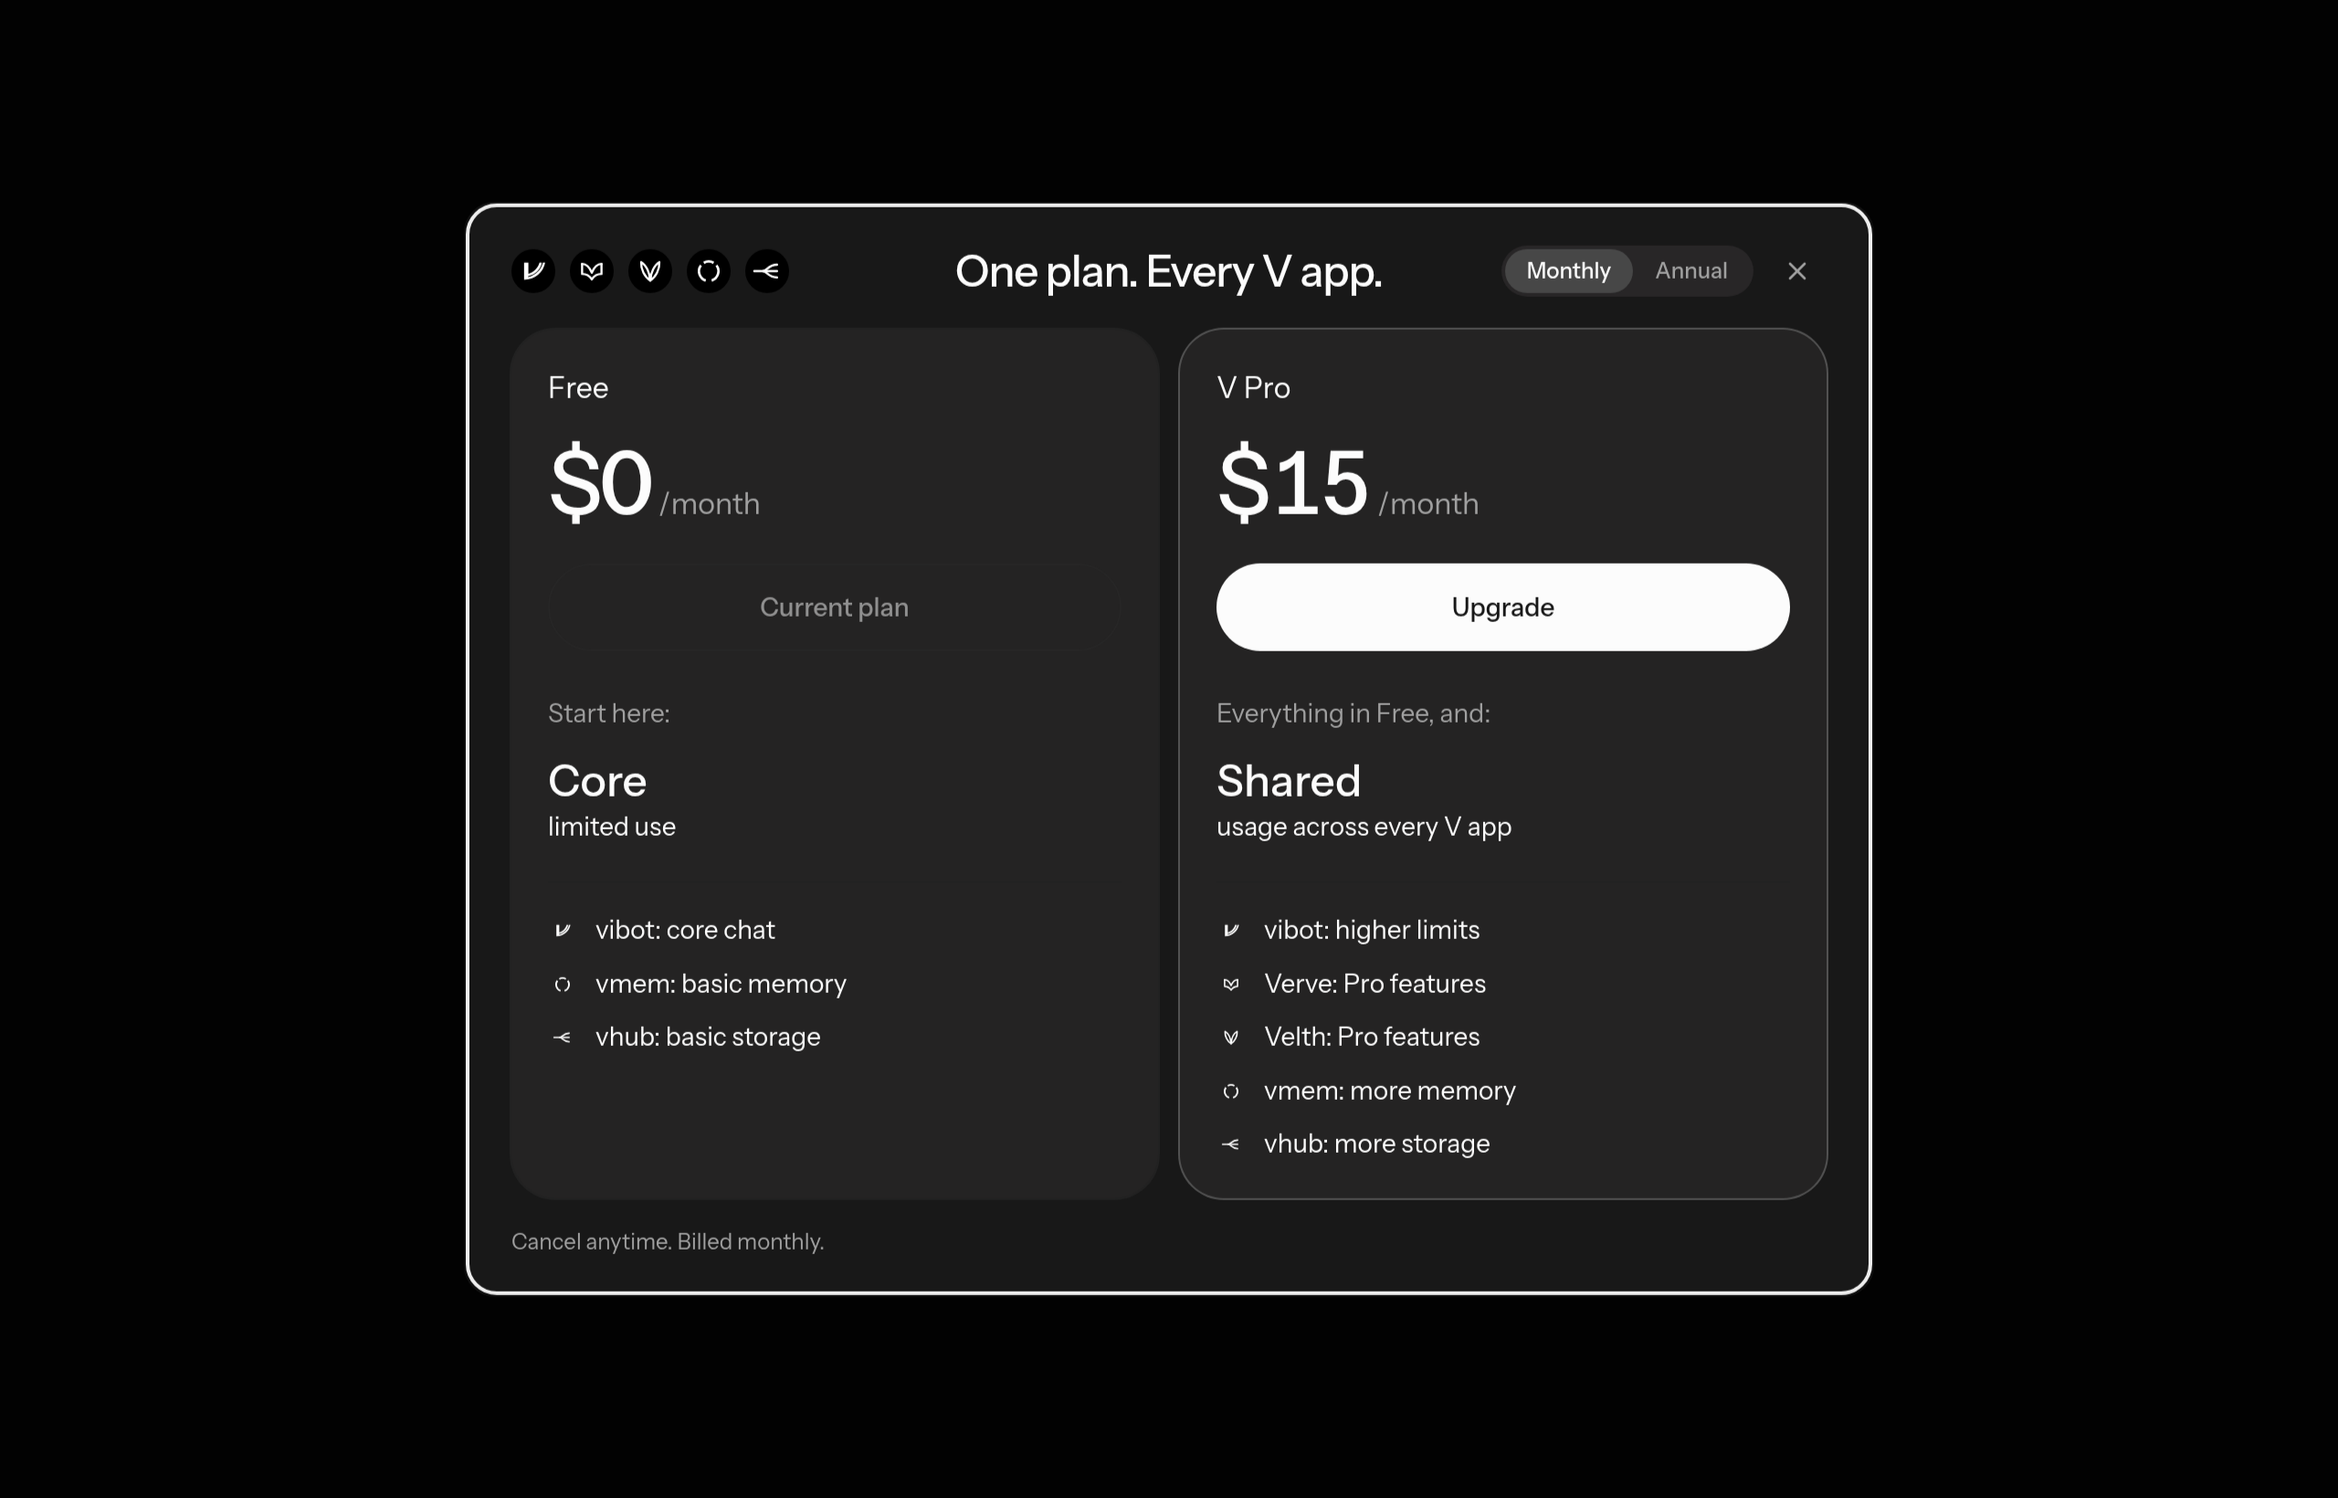
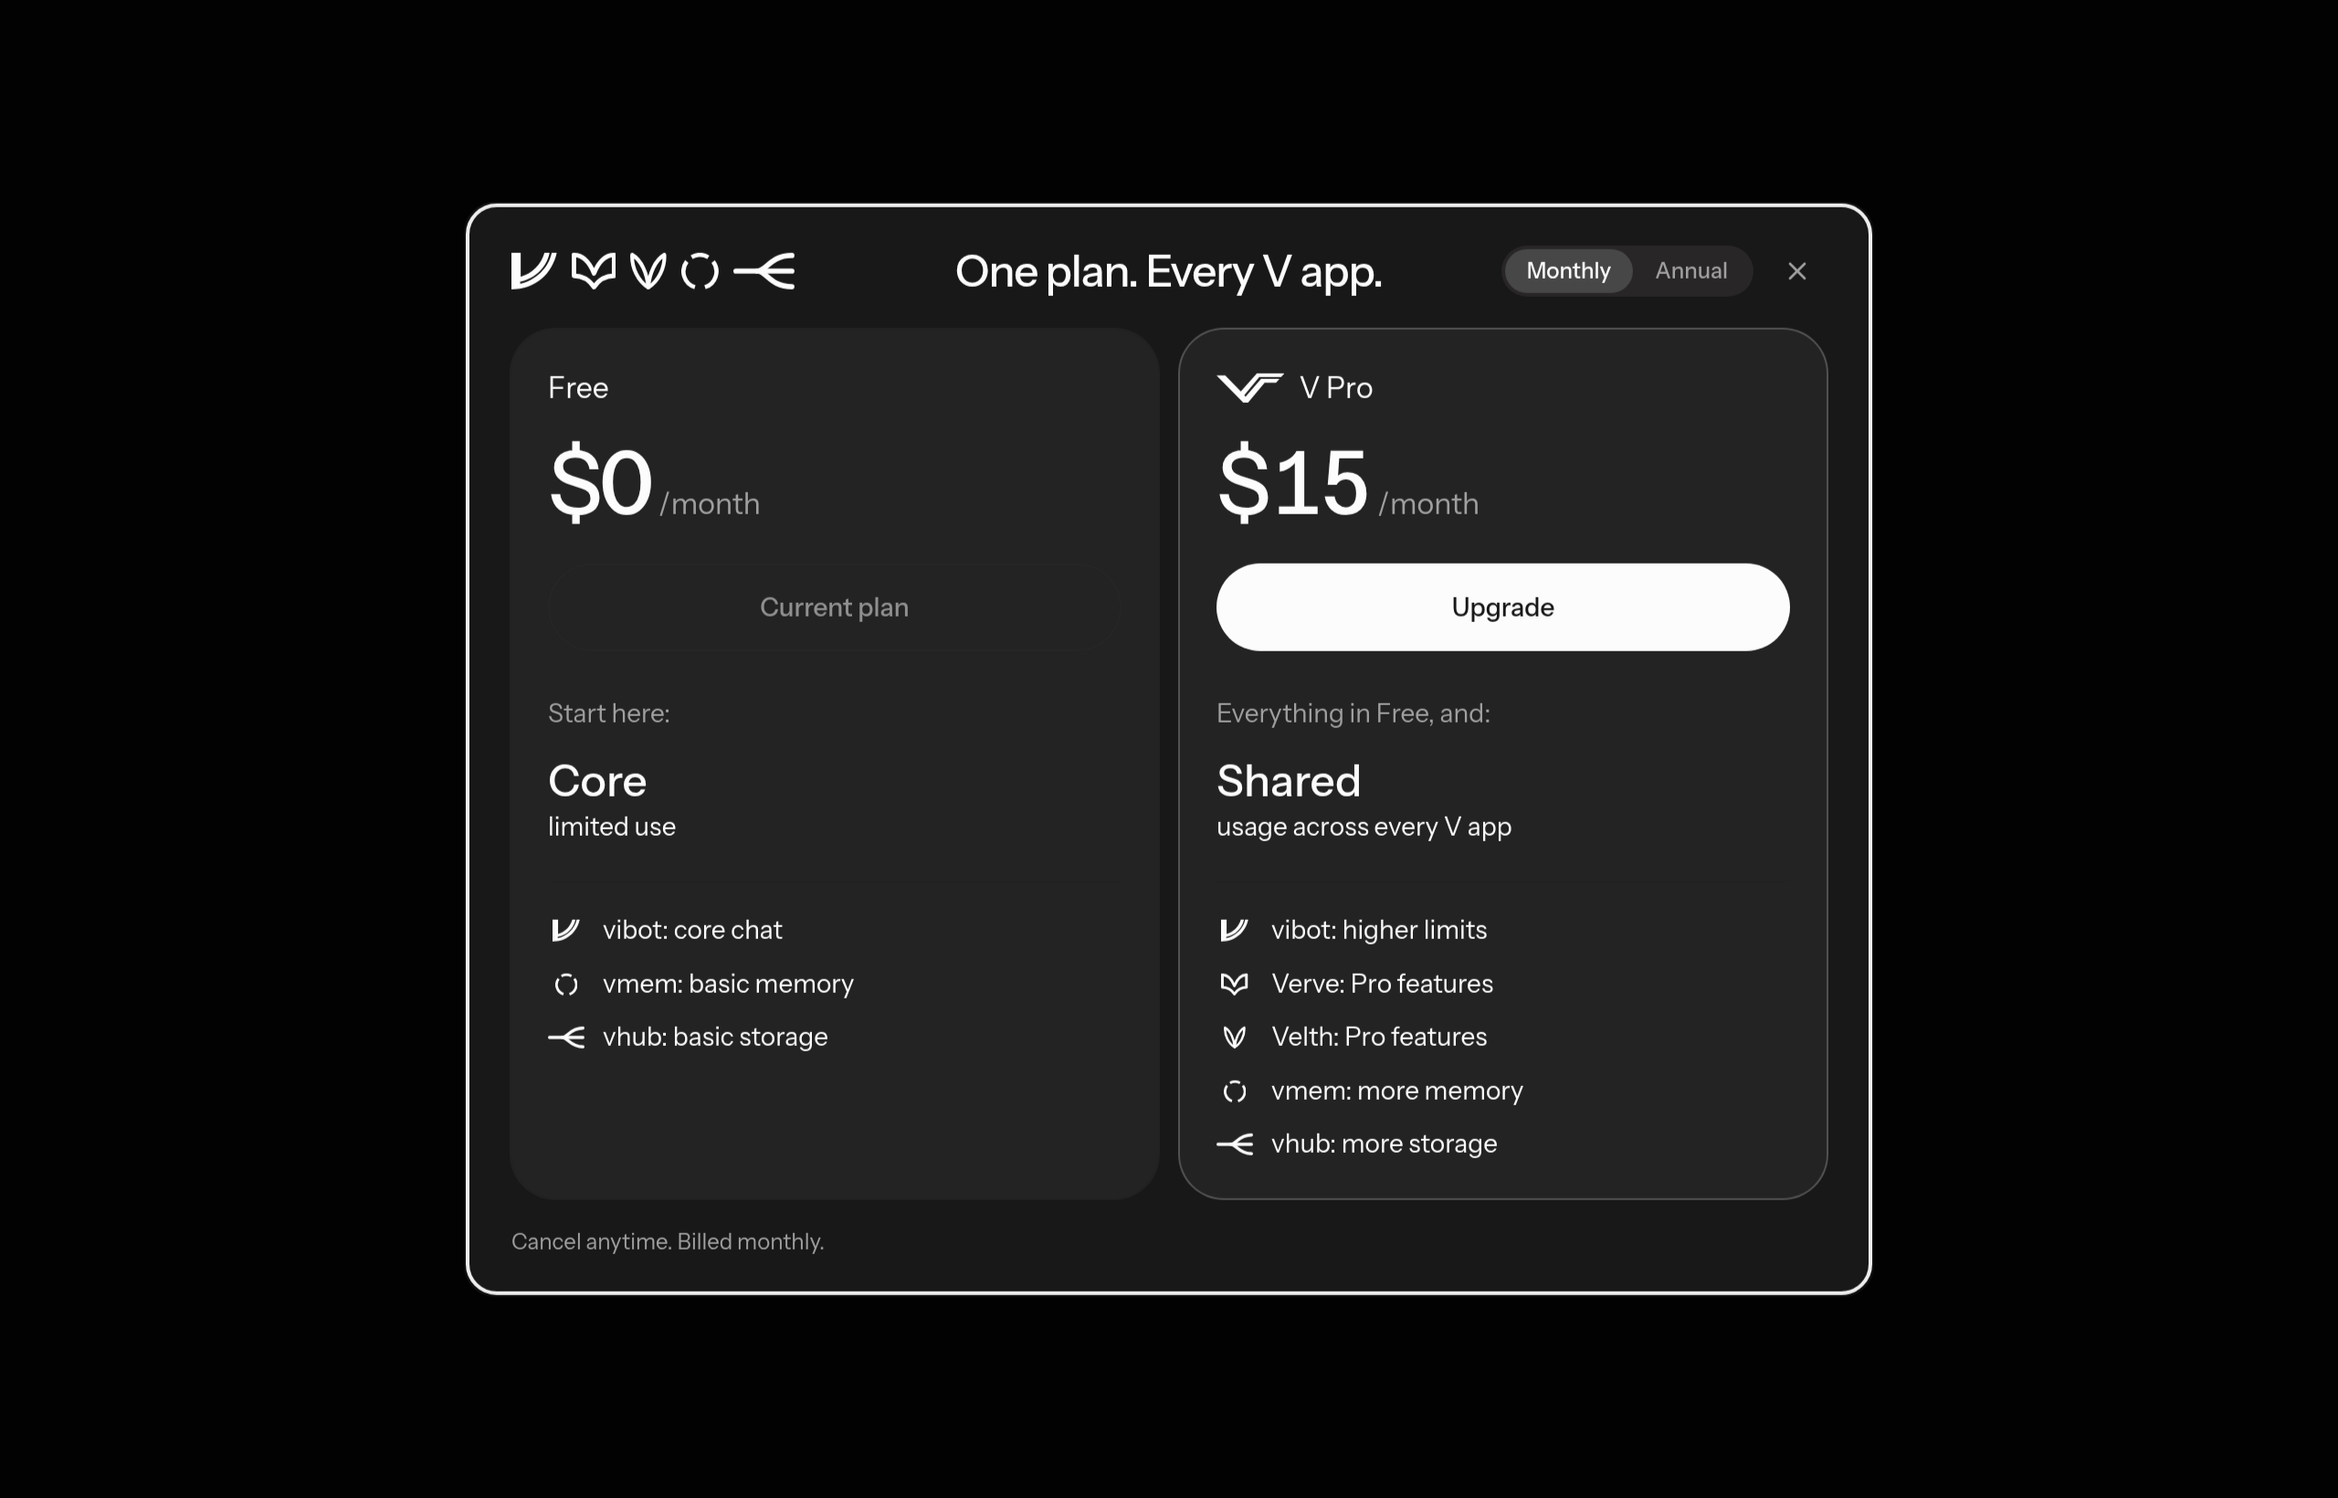
feat(ui): SidebarUpgradeCard + PricingModal plan mark (0.23.0)

diff --git a/packages/ui/shell/src/SidebarUpgradeCard.test.tsx b/packages/ui/shell/src/SidebarUpgradeCard.test.tsx
@@ -1,0 +1,54 @@
+// @vitest-environment happy-dom
+import { act } from "react";
+import { createRoot } from "react-dom/client";
+import { afterEach, describe, expect, it, vi } from "vitest";
+import { SidebarUpgradeCard } from "./SidebarUpgradeCard";
+
+(globalThis as { IS_REACT_ACT_ENVIRONMENT?: boolean }).IS_REACT_ACT_ENVIRONMENT = true;
+
+afterEach(() => {
+  document.body.innerHTML = "";
+});
+
+async function mount(props: Parameters<typeof SidebarUpgradeCard>[0]) {
+  const host = document.createElement("div");
+  document.body.appendChild(host);
+  const root = createRoot(host);
+  await act(async () => root.render(<SidebarUpgradeCard {...props} />));
+  return host;
+}
+
+describe("SidebarUpgradeCard", () => {
+  it("shows the mark, the title and an Upgrade pill, with no subtitle", async () => {
+    const onUpgrade = vi.fn();
+    const host = await mount({ onUpgrade, className: "extra" });
+    const card = host.querySelector("[data-slot='sidebar-upgrade-card']") as HTMLElement;
+    expect(card.className).toContain("extra");
+    expect(card.className).toContain("bg-surface-secondary");
+    expect(card.textContent).toBe("Upgrade to Pro" + "Upgrade");
+    const mark = card.querySelector("svg") as SVGElement;
+    expect(mark.getAttribute("data-app")).toBe("projectv");
+    expect(mark.getAttribute("height")).toBe("14");
+    expect(mark.getAttribute("width")).not.toBe("14");
+    const button = card.querySelector("button") as HTMLButtonElement;
+    expect(button.textContent).toBe("Upgrade");
+    expect(button.className).toContain("rounded-full");
+    expect(button.className).toContain("bg-foreground");
+    expect(button.className).toContain("text-background");
+    await act(async () => button.click());
+    expect(onUpgrade).toHaveBeenCalledTimes(1);
+  });
+
+  it("collapses to an icon-only round button with an accessible label", async () => {
+    const onUpgrade = vi.fn();
+    const host = await mount({ onUpgrade, collapsed: true });
+    expect(host.querySelector("[data-slot='sidebar-upgrade-card']")).toBeNull();
+    const button = host.querySelector("button") as HTMLButtonElement;
+    expect(button.getAttribute("aria-label")).toBe("Upgrade to Pro");
+    expect(button.textContent).toBe("");
+    expect(button.className).toContain("rounded-full");
+    expect(button.querySelector("svg")?.getAttribute("data-app")).toBe("projectv");
+    await act(async () => button.click());
+    expect(onUpgrade).toHaveBeenCalledTimes(1);
+  });
+});

diff --git a/packages/ui/shell/src/SidebarUpgradeCard.tsx b/packages/ui/shell/src/SidebarUpgradeCard.tsx
@@ -1,0 +1,52 @@
+import { AppMark } from "../../src/brand/AppMark";
+import { Button } from "../../src/ui/button";
+import { cn } from "../../src/utils/cn";
+
+export type SidebarUpgradeCardProps = {
+  /** Opens the app's `PricingModal`. */
+  onUpgrade: () => void;
+  /** Narrow rail: an icon-only "Upgrade to Pro" button instead of the full card. Default `false`. */
+  collapsed?: boolean;
+  className?: string;
+};
+
+const pillClass = "bg-foreground text-background hover:bg-foreground/85";
+
+/**
+ * Upgrade prompt for the sidebar: Project V mark, "Upgrade to Pro" and an "Upgrade" pill. It does not check
+ * the plan; the app hides it when the user is already on Pro. The mark uses a numeric `size` (its height) so
+ * the width follows the aspect ratio.
+ */
+export function SidebarUpgradeCard({ onUpgrade, collapsed = false, className }: SidebarUpgradeCardProps) {
+  if (collapsed) {
+    return (
+      <Button
+        type="button"
+        size="icon"
+        aria-label="Upgrade to Pro"
+        title="Upgrade to Pro"
+        onClick={onUpgrade}
+        className={cn("rounded-full", pillClass, className)}
+      >
+        <AppMark app="projectv" size={16} />
+      </Button>
+    );
+  }
+  return (
+    <div
+      data-slot="sidebar-upgrade-card"
+      className={cn(
+        "flex items-center justify-between gap-3 rounded-2xl bg-surface-secondary px-3 py-2.5 text-foreground",
+        className,
+      )}
+    >
+      <div className="flex min-w-0 items-center gap-2 text-sm font-semibold">
+        <AppMark app="projectv" size={14} className="shrink-0" />
+        <span className="truncate">Upgrade to Pro</span>
+      </div>
+      <Button type="button" size="sm" onClick={onUpgrade} className={cn("shrink-0 rounded-full", pillClass)}>
+        Upgrade
+      </Button>
+    </div>
+  );
+}

diff --git a/packages/ui/src/marketing/PricingModal.test.tsx b/packages/ui/src/marketing/PricingModal.test.tsx
@@ -107,6 +107,16 @@ describe("PricingModal multi-plan", () => {
     expect(document.body.querySelector("[role='dialog']")?.textContent).toContain("Close");
   });
 
+  it("shows the Project V mark beside the paid plan name only", async () => {
+    await mountMulti();
+    const pro = document.body.querySelector("section[data-plan='pro']") as HTMLElement;
+    const free = document.body.querySelector("section[data-plan='free']") as HTMLElement;
+    const mark = pro.querySelector("h3")?.previousElementSibling;
+    expect(mark?.getAttribute("data-app")).toBe("projectv");
+    expect(mark?.getAttribute("height")).toBe("16");
+    expect(free.querySelector("h3")?.previousElementSibling).toBeNull();
+  });
+
   it("switches prices and the renderCheckout period", async () => {
     const renderCheckout = vi.fn<PricingModalMultiProps["renderCheckout"]>((button) => button);
     await mountMulti({ renderCheckout });

diff --git a/packages/ui/src/marketing/PricingModal.tsx b/packages/ui/src/marketing/PricingModal.tsx
@@ -351,7 +351,14 @@ function PricingModalMulti({
                   emphasised ? "ring-1 ring-foreground/25" : "ring-1 ring-separator"
                 }`}
               >
-                <h3 className="text-base text-foreground">{plan.name}</h3>
+                {emphasised ? (
+                  <div className="flex items-center gap-2 text-base text-foreground">
+                    <AppMark app="projectv" size={16} className="shrink-0" />
+                    <h3>{plan.name}</h3>
+                  </div>
+                ) : (
+                  <h3 className="text-base text-foreground">{plan.name}</h3>
+                )}
                 <p className="mt-4 flex items-baseline gap-1">
                   <span className="text-5xl font-medium tabular-nums leading-none tracking-tight text-foreground">
                     {plan.price[period]}

diff --git a/packages/ui/src/index.ts b/packages/ui/src/index.ts
@@ -181,6 +181,8 @@ export { toast } from "sonner";
 // use the root `cn` (clsx + tailwind-merge).
 export { SidebarHeader } from "../shell/src/SidebarHeader";
 export type { SidebarHeaderProps } from "../shell/src/SidebarHeader";
+export { SidebarUpgradeCard } from "../shell/src/SidebarUpgradeCard";
+export type { SidebarUpgradeCardProps } from "../shell/src/SidebarUpgradeCard";
 export { PillTabs } from "../shell/src/PillTabs";
 export type { PillTabItem, PillTabsProps } from "../shell/src/PillTabs";
 export { SessionsHoverCard } from "../shell/src/SessionsHoverCard";

diff --git a/packages/ui/src/root-exports.test.ts b/packages/ui/src/root-exports.test.ts
@@ -4,7 +4,7 @@ import * as root from "./index";
 test("root exposes former subpath APIs", () => {
   for (const name of [
     "cn", "toast", "SonnerToaster", "playChime", "useReplyChime", "InputArea",
-    "SidebarHeader", "PillTabs", "SessionsHoverCard",
+    "SidebarHeader", "SidebarUpgradeCard", "PillTabs", "SessionsHoverCard",
     "requestConfirm", "useRequestConfirm", "startUpdateAvailableWatcher",
     "SettingsPage", "useStableAuth", "tokens",
     "SlideOverPanel", "ToolbarSearchInput", "ConfirmDialog", "SettingsField",

diff --git a/packages/ui/shell/src/index.ts b/packages/ui/shell/src/index.ts
@@ -1,5 +1,7 @@
 export { SidebarHeader } from "./SidebarHeader.js";
 export type { SidebarHeaderProps } from "./SidebarHeader.js";
+export { SidebarUpgradeCard } from "./SidebarUpgradeCard.js";
+export type { SidebarUpgradeCardProps } from "./SidebarUpgradeCard.js";
 export { PillTabs } from "./PillTabs.js";
 export type { PillTabItem, PillTabsProps } from "./PillTabs.js";
 export { cn } from "./cn.js";

diff --git a/packages/ui/README.md b/packages/ui/README.md
@@ -4,7 +4,7 @@ Shared React 19 web UI. Source-exported: no build step.
 
 | Import | What it is |
 | --- | --- |
-| `@vvedantb/ui` | The only JavaScript entry. Primitives (Radix-based), AI elements, audio (`playChime`, `useReplyChime`, `playTone`), `toast` and `SonnerToaster`, the composer (`InputArea`, deprecated 0.3 `Composer`), shell (`SidebarHeader`, `PillTabs`, `SessionsHoverCard`, and the app shell: `AppShell`, `AppSidebar`, `SidebarRail`, `RailTile`, `SidebarPanel`, `SidebarAccountMenu`, `SignOutDialog` and related helpers), app helpers (confirm skip, update watcher, settings chrome, `useStableAuth`, and from 0.8.0 `createThemeProvider`, `createPageTitleContext`, `PageMotionProvider` and `formatCompactRelativeTime`), marketing pieces from 0.9.0 (`createLandingKit` and the `Landing*` parts, `SiteFooter`, `PricingModal`), animated nav icons from 0.11.0 (`MemoryIcon`, `BoardIcon`, ... and `NavIconBase`; `SettingsIcon` `variant` from 0.12.0), artifact viewers from 0.13.0 (`ArtifactFrame`, `ArtifactList`, `ArtifactViewer`, ...), date pickers from 0.14.0 (`Calendar`, `DatePicker`, `DateTimePicker`, `MonthPicker`), `cn`, and the native tokens `tokens` and `Tokens`. See `app/README.md` in the repository for the app helpers. |
+| `@vvedantb/ui` | The only JavaScript entry. Primitives (Radix-based), AI elements, audio (`playChime`, `useReplyChime`, `playTone`), `toast` and `SonnerToaster`, the composer (`InputArea`, deprecated 0.3 `Composer`), shell (`SidebarHeader`, `SidebarUpgradeCard`, `PillTabs`, `SessionsHoverCard`, and the app shell: `AppShell`, `AppSidebar`, `SidebarRail`, `RailTile`, `SidebarPanel`, `SidebarAccountMenu`, `SignOutDialog` and related helpers), app helpers (confirm skip, update watcher, settings chrome, `useStableAuth`, and from 0.8.0 `createThemeProvider`, `createPageTitleContext`, `PageMotionProvider` and `formatCompactRelativeTime`), marketing pieces from 0.9.0 (`createLandingKit` and the `Landing*` parts, `SiteFooter`, `PricingModal`), animated nav icons from 0.11.0 (`MemoryIcon`, `BoardIcon`, ... and `NavIconBase`; `SettingsIcon` `variant` from 0.12.0), artifact viewers from 0.13.0 (`ArtifactFrame`, `ArtifactList`, `ArtifactViewer`, ...), date pickers from 0.14.0 (`Calendar`, `DatePicker`, `DateTimePicker`, `MonthPicker`), `cn`, and the native tokens `tokens` and `Tokens`. See `app/README.md` in the repository for the app helpers. |
 | `@vvedantb/ui/tokens` | `tokens.css`: colour, radius, shadow, ease and font tokens for Tailwind v4. CSS. |
 | `@vvedantb/ui/tokens/tokens.css` | Same file as `@vvedantb/ui/tokens`. CSS. |
 | `@vvedantb/ui/tokens/css/*.css` | `index`, `base`, `dialog`, `modal`, `tabs`, `tabs-pills`, `utilities`, `scrollbar-thin`, `clear-input`, `motion`, `animations`, `nav-icons`, `compat-shadcn-rgb`, `border-beam` (opt-in, for `BorderBeam`), `markdown` (opt-in, for `Markdown`). CSS. `tokens.css` imports `scrollbar-thin`, `clear-input` and `motion`. |
@@ -178,6 +178,17 @@ function MentionComposer({ draft, setDraft, send }: Props) {
 `ComposerShell` props: `layout`, `disabled`, `streaming`, `canSend` (always a boolean: `Composer` resolves the function form), `stopMode` (`"replace"` or `"alongside"`, where the buttons render), `onSend`, `onStop`, `plusMenu`, `trailingActions`, `attachments`, `className` and `children` (the input region). In the shell the Enter, Tab and Esc keys are yours to wire when you do not use `Composer`.
 
 Fixture: `composer/examples/` (see its README). It has a `tokens.css` page and a `compat-shadcn-rgb.css` page, each with light and dark.
+
+## Sidebar upgrade card
+
+```tsx
+import { SidebarUpgradeCard } from "@vvedantb/ui";
+
+{!isPro && <SidebarUpgradeCard onUpgrade={() => setPricingOpen(true)} />}
+{!isPro && <SidebarUpgradeCard collapsed onUpgrade={() => setPricingOpen(true)} />}
+```
+
+Shows the Project V mark, "Upgrade to Pro" and an "Upgrade" pill. `collapsed` renders an icon-only round button labelled "Upgrade to Pro" for narrow rails. The card does not check the plan, so the app hides it for Pro users.
 
 ## Sessions hover card
 

diff --git a/packages/ui/CHANGELOG.md b/packages/ui/CHANGELOG.md
@@ -1,5 +1,10 @@
 # Changelog
 
+## 0.23.0
+
+- New `SidebarUpgradeCard` (shell family, exported from the root). A rounded card with the Project V mark, the title "Upgrade to Pro" and an "Upgrade" pill, with no subtitle. Props: `onUpgrade`, `className` and `collapsed` (an icon-only round button labelled "Upgrade to Pro" for narrow rails). It uses theme tokens, so it works in light and dark. It does not detect the plan; the app hides it for Pro users.
+- `PricingModal` multi-plan cards show the Project V mark (16px high, `currentColor`) beside the name of the `featured` / `highlighted` plan. Other plans show the name only.
+
 ## 0.22.1
 
 - `AppMark` with `variant="mark"` (the default) is now cropped tight to the glyph, with no padding. Stroke marks include half the stroke width. `size` sets the rendered height and the width follows the aspect ratio, so the logo sits level with a wordmark. A string `size` still sets width and height to the same value. Tile variants are unchanged (1024 grid, equalised, square).
